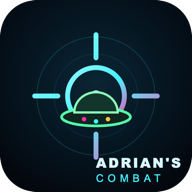
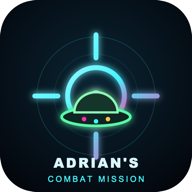
Rename the game to ADRIAN'S COMBAT MISSION

Changed region(s): [[0.1562, 0.1562, 0.9375, 0.875], [0.25, 0.9062, 0.8438, 0.9688]]

diff --git a/index.html b/index.html
@@ -7,10 +7,10 @@
     <meta name="apple-mobile-web-app-capable" content="yes" />
     <meta name="apple-mobile-web-app-status-bar-style" content="black-translucent" />
     <meta name="mobile-web-app-capable" content="yes" />
-    <meta name="description" content="ADRIAN'S COMBAT — a camera-first AR invasion game for phones. Fight drones, zombies, aliens, dinosaurs, minions, comic-style villains and eleven bosses in your own room." />
+    <meta name="description" content="ADRIAN'S COMBAT MISSION — a camera-first AR invasion game for phones. Fight drones, zombies, aliens, dinosaurs, minions, comic-style villains and eleven bosses in your own room." />
     <link rel="manifest" href="./manifest.webmanifest" />
     <link rel="icon" type="image/svg+xml" href="./icon.svg" />
-    <title>ADRIAN'S COMBAT — AR Invasion</title>
+    <title>ADRIAN'S COMBAT MISSION — AR Invasion</title>
   </head>
   <body>
     <video id="arVideo" playsinline autoplay muted aria-hidden="true"></video>
@@ -18,7 +18,7 @@
 
     <div id="boot">
       <div class="boot-inner">
-        <div class="boot-logo">ADRIAN'S<span>COMBAT</span></div>
+        <div class="boot-logo">ADRIAN'S<span>COMBAT MISSION</span></div>
         <div class="boot-bar"><i></i></div>
         <div class="boot-text" id="bootText">CALIBRATING NEURAL LINK</div>
       </div>
@@ -33,7 +33,7 @@
       <div id="damageDirection"><div id="damageDirRing"><span></span></div></div>
 
       <div id="hudTop">
-        <div class="brand-mini">ADRIAN'S <span>COMBAT</span></div>
+        <div class="brand-mini">ADRIAN'S <span>COMBAT MISSION</span></div>
         <div id="waveChip">WAVE <b id="waveNum">01</b></div>
         <div id="diffChip">NORMAL</div>
         <div id="scoreChip"><span>SCORE</span><b id="scoreVal">0</b><em id="bestVal">BEST 0</em></div>
@@ -122,7 +122,7 @@
     <div id="menu" class="screen">
       <div class="menu-grid"></div>
       <header class="menu-head">
-        <div class="logo">ADRIAN'S<span>COMBAT</span><em>AR INVASION</em></div>
+        <div class="logo">ADRIAN'S<span>COMBAT MISSION</span><em>AR INVASION</em></div>
         <p id="tagline" class="tagline">The arena is wherever you stand.</p>
       </header>
 

diff --git a/src/style.css b/src/style.css
@@ -3497,3 +3497,14 @@ body.camera-ar #buffBar {
     bottom: calc(18px + env(safe-area-inset-bottom));
   }
 }
+
+/* Longer product name: keep the wordmark inside the phone width. */
+.boot-logo span {
+  font-size: 0.72em;
+  letter-spacing: 0.16em;
+}
+
+.logo span {
+  font-size: 0.68em;
+  letter-spacing: 0.015em;
+}

diff --git a/README.md b/README.md
@@ -1,4 +1,4 @@
-# ADRIAN'S COMBAT — AR Invasion
+# ADRIAN'S COMBAT MISSION — AR Invasion
 
 A camera-first AR shooter that runs in the phone browser. No keyboard, no controller: point your phone, hold **FIRE**, tap **RELOAD**, and walk around your room, garden or street. Hold **FIRE** to charge and throw your selected special bomb.
 
@@ -106,7 +106,7 @@ Same Wi-Fi only, up to six phones. The room server keeps a scoreboard; it does n
 
 ### An honest limitation
 
-Native AR games use ARKit/ARCore to share a physical world map between phones. Mobile browsers cannot do that reliably. ADRIAN'S COMBAT therefore delivers:
+Native AR games use ARKit/ARCore to share a physical world map between phones. Mobile browsers cannot do that reliably. ADRIAN'S COMBAT MISSION therefore delivers:
 
 - true camera + motion + GPS **solo** AR;
 - same-Wi-Fi **score rooms** for FFA and Teams;

diff --git a/CREDITS.md b/CREDITS.md
@@ -1,6 +1,6 @@
 # Asset Credits
 
-ADRIAN'S COMBAT includes third-party 3D models and audio samples. The rest of
+ADRIAN'S COMBAT MISSION includes third-party 3D models and audio samples. The rest of
 the game (arena, bosses, effects, UI and synthesized audio) was generated in
 this project.
 
